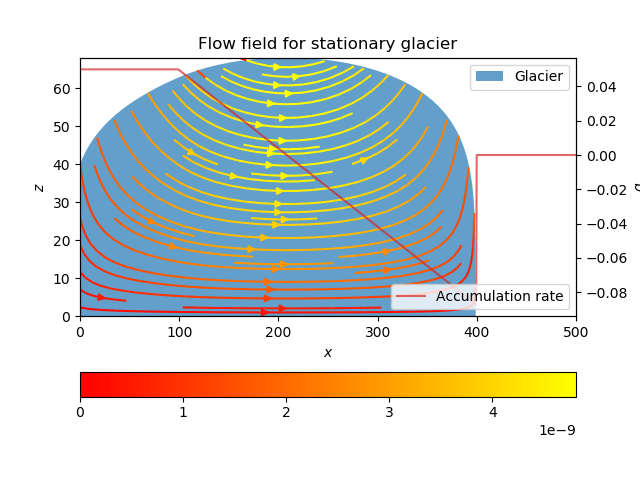
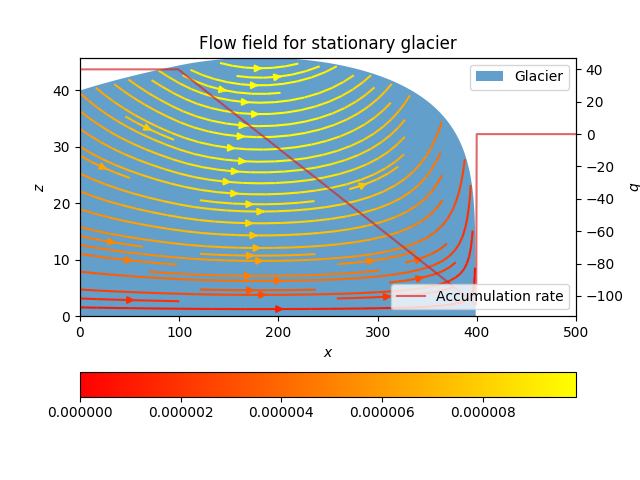
flow_field: Tweak example parameters

diff --git a/flow_field.py b/flow_field.py
@@ -106,10 +106,10 @@ h_0 = 40
 xs = np.linspace(0, 500, 1000)
 x_s = 100
 x_f = 400
-q_0 = 0.05
+q_0 = 40
 
 linear_production = [x_s, x_f, q_0]
-q = lambda x: 0.1 * np.sin(x / 25) / ((x + 1) / 25) - 0.01
+q = lambda x: 100 * np.sin(x / 25) / ((x + 1) / 25) - 20
 arbitrary_production = [np.array(list(map(q, xs)))]
 
 U, V, glacier, zs = stationary_internal_flow_field(
